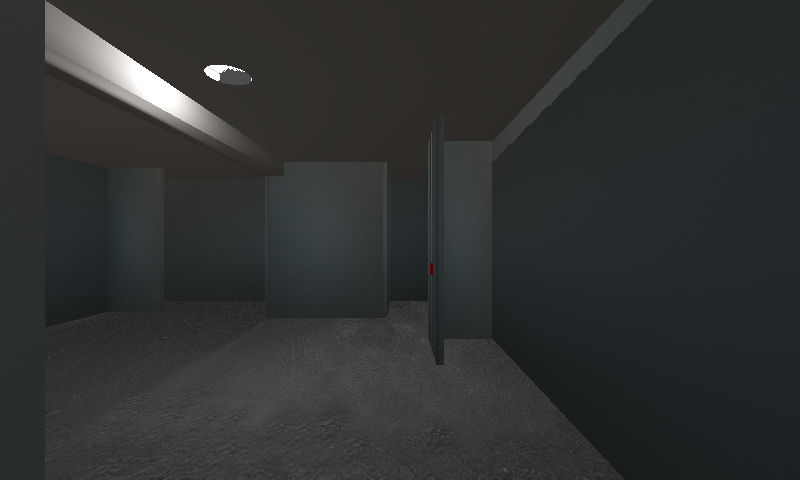
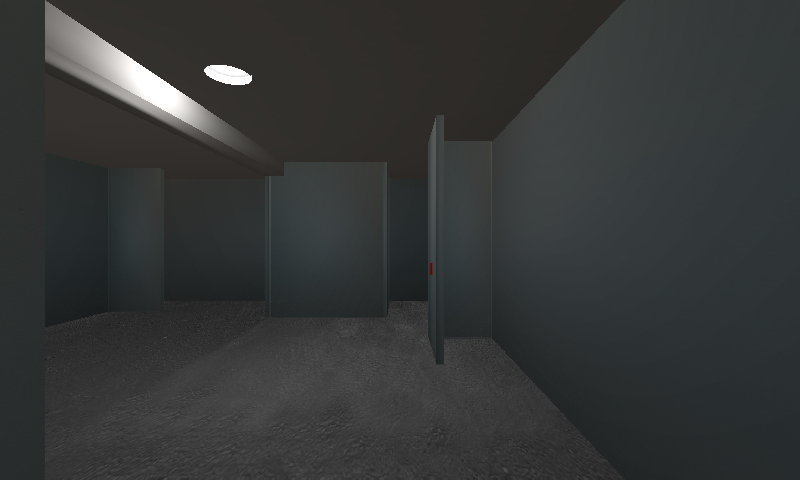
all tests passing

Changed region(s): [[0.6562, 0.125, 0.75, 0.3438], [0.5312, 0.25, 0.5625, 0.5], [0.25, 0.125, 0.3125, 0.1875]]

diff --git a/ExploringGame/Rendering/RenderEffect.cs b/ExploringGame/Rendering/RenderEffect.cs
@@ -108,8 +108,13 @@ public class BasicRenderEffect : RenderEffect<BasicEffect>
     private Vector3 AmbientLight(ShapeBuffer shapeBuffer)
     {
 
-        var brightness = LightIntensity.DefaultAmbientLight; 
+        float brightness = LightIntensity.DefaultAmbientLight;
         var lightingGroup = shapeBuffer.LightingGroup;
+        if (lightingGroup != null && lightingGroup.FixedAmbientLight.HasValue)
+        {
+            brightness = lightingGroup.FixedAmbientLight.Value;
+        }
+
         if (lightingGroup != null && _roomLightingCalculator.RoomLightGraph.TryGet(lightingGroup, out var lightData))
         {
             brightness += lightData.TotalLight;

diff --git a/ExploringGame/GeometryBuilder/Shapes/Room.cs b/ExploringGame/GeometryBuilder/Shapes/Room.cs
@@ -19,6 +19,11 @@ public class Room : Shape
     private List<RoomConnection> _roomConnections = new List<RoomConnection>();
     public IEnumerable<RoomConnection> RoomConnections => _roomConnections;
 
+    /// <summary>
+    /// If set, this value is used as the room's default ambient light instead of LightIntensity.DefaultAmbientLight
+    /// </summary>
+    public float? FixedAmbientLight { get; set; }
+
     public override IColliderMaker ColliderMaker => ColliderMakers.Room(this);
 
     public override ViewFrom ViewFrom => ViewFrom.Inside;

diff --git a/ExploringGame.Tests/VisualRegressionTests/LightingVisualTests.cs b/ExploringGame.Tests/VisualRegressionTests/LightingVisualTests.cs
@@ -10,7 +10,7 @@ using Microsoft.Xna.Framework;
 using System.Linq;
 using Xunit;
 
-namespace ExploringGame.Tests.VisualTests;
+namespace ExploringGame.Tests.VisualRegressionTests;
 
 /// <summary>
 /// Visual test for the lighting system - captures a screenshot for manual inspection.
